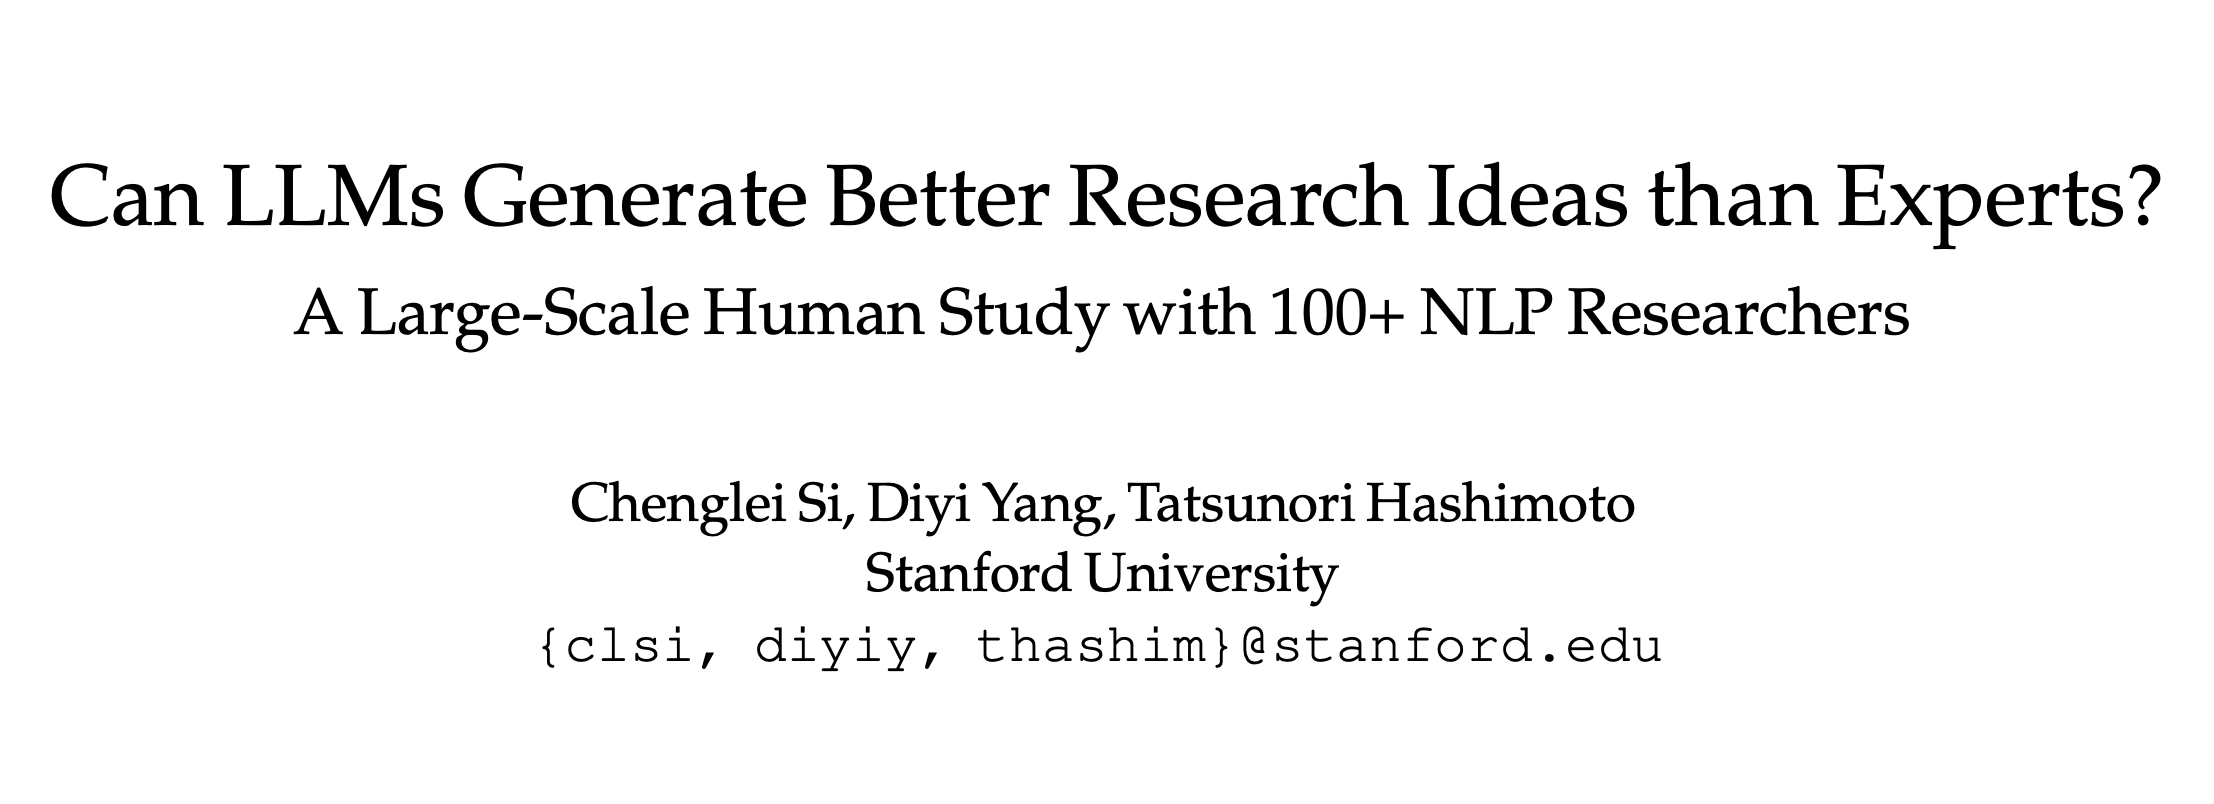
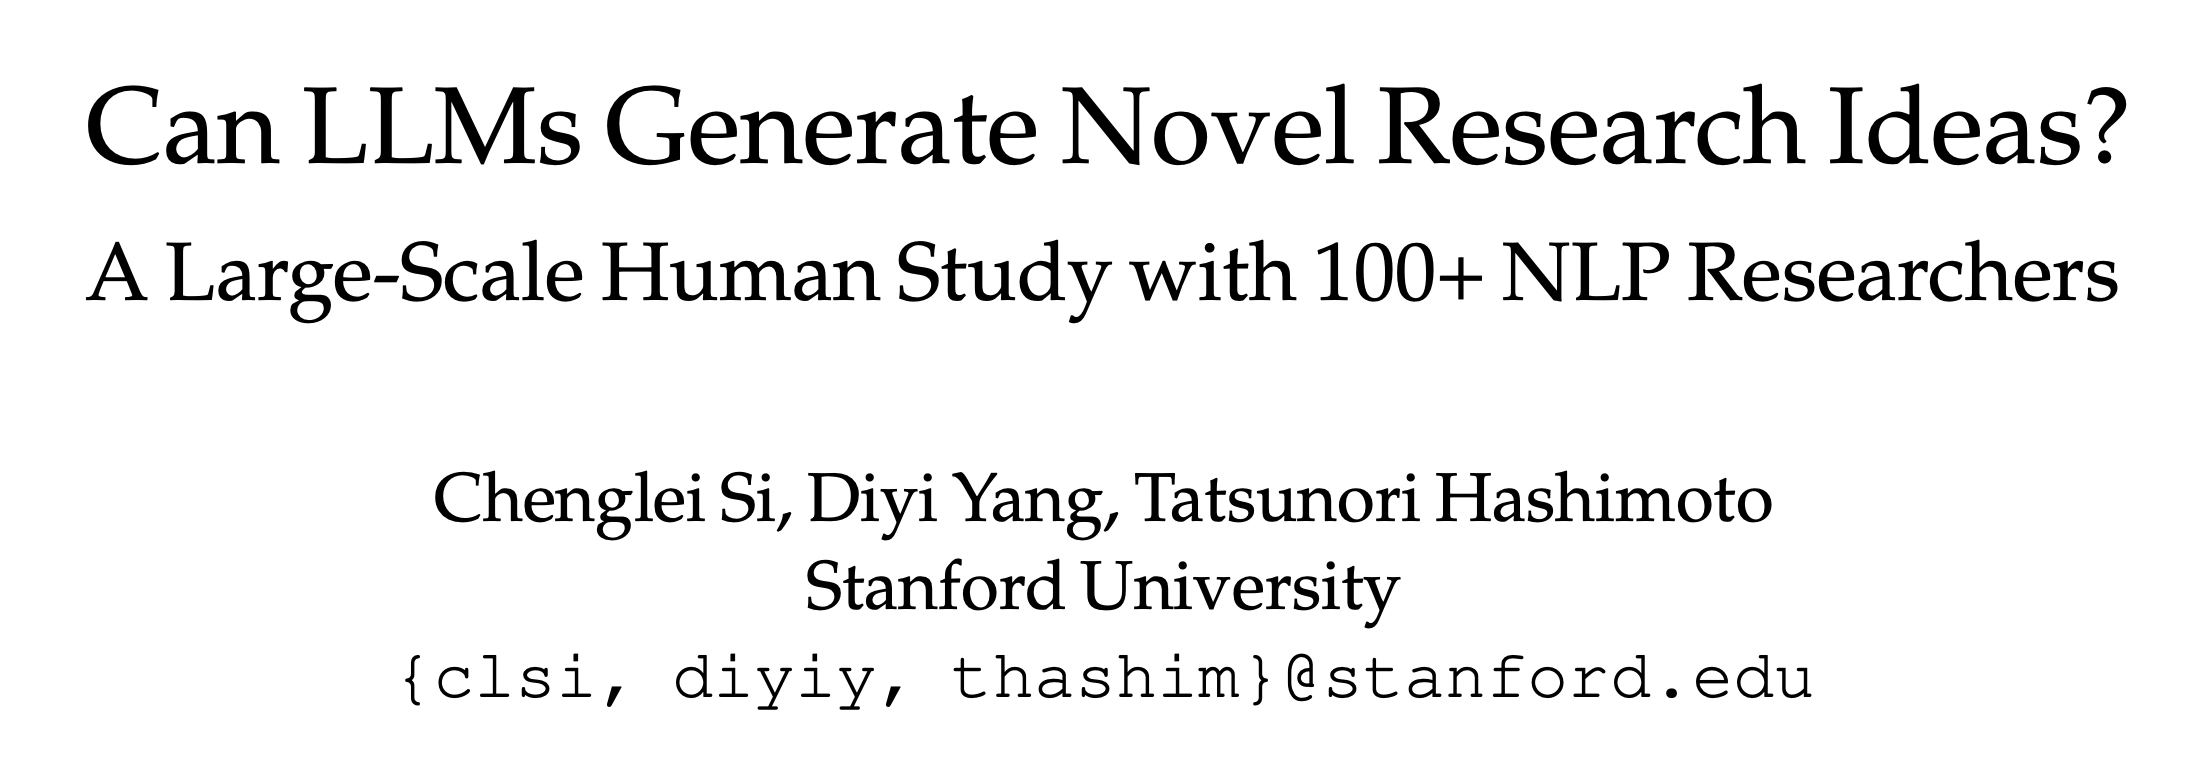
new title fig

diff --git a/README.md b/README.md
@@ -3,8 +3,8 @@
   <b>by Stanford NLP</b><br>
 </h1>
 
-![teaser](figures/overview.png)
-![teaser](figures/results.png)
+![teaser](figures/title.png)
+![teaser](figures/overvie.png)
 
 This repo implements the research ideation agent used in our paper "Are LLMs Better than Experts on Generating Novel Research Ideas? A Large-Scale Human Study with 100+ NLP Researchers". Based on evaluation results by 79 expert reviewers, the ideas produced by our agent were rated as more novel than those generated by human experts. 
 
@@ -150,7 +150,7 @@ Please cite the paper and star this repo if you find our work useful, thanks! Fe
 
 ```bibtex
 @article{si2024llmideas,
-      title={Can LLMs Generate Better Research Ideas than Experts? A Large-Scale Human Study with 100+ NLP Researchers}, 
+      title={Can LLMs Generate Novel Research Ideas? A Large-Scale Human Study with 100+ NLP Researchers}, 
       author={Chenglei Si and Diyi Yang and Tatsunori Hashimoto},
       year={2024},
       journal={arXiv}
